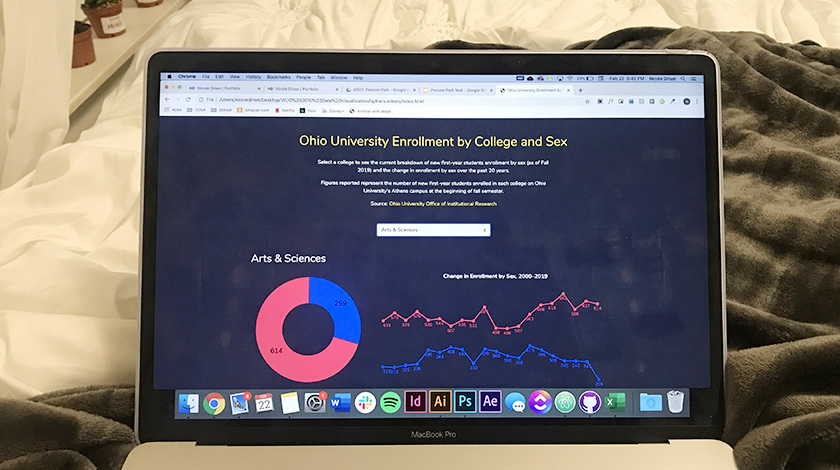
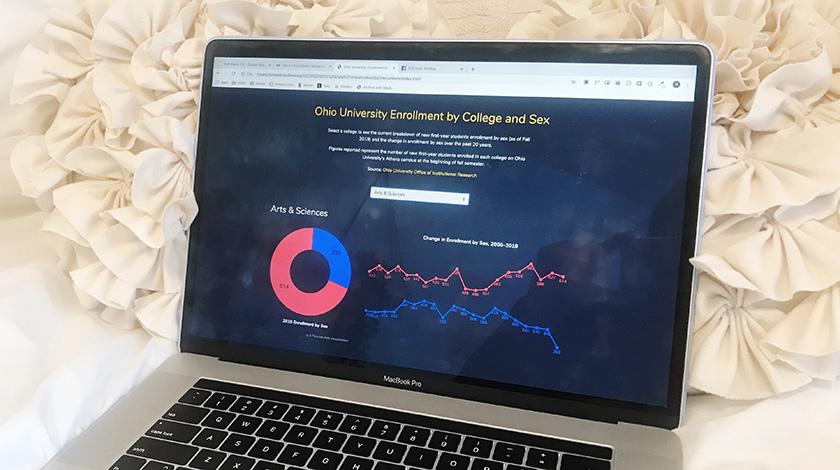
replace home page images and add gold rush page

diff --git a/goldrush.html b/goldrush.html
@@ -1,0 +1,271 @@
+<!DOCTYPE html>
+<html lang="en">
+
+<head>
+	<!-- meta tags -->
+	<meta charset="utf-8" />
+	<meta name="viewport" content="width=device-width, initial-scale=1, shrink-to-fit=no"/>
+	<title>Mongolian Gold Rush | Nicole Dinan</title>
+	<link rel='icon' href='images/nicoledinan_favicon1.png' type='image/x-icon'/ >
+
+	<!-- bootstrap CSS -->
+	<link href="https://unpkg.com/bootstrap/dist/css/bootstrap.min.css" rel="stylesheet"/>
+
+	<!-- google fonts stylesheet -->
+	<link href="https://fonts.googleapis.com/css?family=Poppins:400,400i,500,600,700&display=swap" rel="stylesheet">
+
+	<!-- stylesheet -->
+	<link href="css/projects.css" rel="stylesheet" />
+
+  <!-- fontawesome icons  -->
+  <script src="https://kit.fontawesome.com/5e57f70baf.js" crossorigin="anonymous"></script>
+
+	<style>
+
+    .bkgd-image-1 {
+        background: url(images/goldrush-cover.jpg);
+        height: 500px;
+        background-position: center;
+        background-repeat: no-repeat;
+        background-size: cover;
+        position: relative;
+    }
+
+  </style>
+
+</head>
+
+<body>
+
+<!-- nav bar -->
+<div class="header">
+<nav class="navbar navbar-expand-md navbar-light align-botttom">
+	<a class="navbar-brand" href="index.html">Nicole Dinan</a>
+	<button class="navbar-toggler" type="button" data-toggle="collapse" data-target="#navbarNav" aria-controls="navbarNav" aria-expanded="false" aria-label="Toggle navigation">
+		<span class="navbar-toggler-icon"></span>
+	</button>
+	<div class="collapse navbar-collapse" id="navbarNav">
+		<ul class="navbar-nav ml-auto">
+			<li class="nav-item">
+				<a class="nav-link active" href="index.html">Work<span class="sr-only">(current)</span></a>
+			</li>
+			<li class="nav-item">
+				<a class="nav-link" href="about.html">About</a>
+			</li>
+			<li class="nav-item">
+				<a class="nav-link" href="contact.html">Contact</a>
+			</li>
+		</ul>
+	</div>
+</nav>
+</div>
+
+<!-- section 1 - title -->
+<div class="wrapper">
+	<div class="container-fluid no-margin bkgd-image-1">
+		<div class="row v-fill justify-content-center align-items-end">
+			<div class="col-8">
+				<div class="centered white-text padding-bottom">
+					<h1 class="display-5">Mongolian Gold Rush</h1>
+					<h6>Website Design & Development</h6>
+				</div>
+			</div>
+		</div>
+	</div>
+</div>
+
+<!-- section 2 - project summary, tools, role -->
+<div class="wrapper">
+	<div class="container-fluid no-margin no-padding">
+		<div class="row no-gutters">
+
+			<div class="col-md-6 white">
+				<div class="row no-gutters justify-content-start">
+					<div class="col-12">
+
+						<div class="more-padding">
+							<h2>Project Summary</h2>
+							<p>I redesigned this NPR story page for a class during the fall semester of my senior year. This assignment included photo editing, creating a map, and building a navigation bar that updates as you scroll through the sections of the page.
+							</p>
+							<p><em>All content used in this project is copyrighted to NPR. This project was created for educational use only.</em></p>
+							<a href="http://mongoliangoldrush.surge.sh/" target="_blank" class="btn pink-btn">View live site</a>
+						</div>
+					</div>
+
+				</div>
+			</div>
+			<div class="col-md-6 white">
+				<div class="row no-gutters justify-content-start">
+					<div class="col-12">
+
+						<div class="more-padding">
+
+							<h4>My Role</h4>
+							<button type="button" class="btn btn-light no-hover">Designer</button>
+							<button type="button" class="btn btn-light no-hover">Developer</button>
+
+							<h4>Tools Used</h4>
+							<button type="button" class="btn btn-light no-hover">HTML</button>
+							<button type="button" class="btn btn-light no-hover">CSS</button>
+							<button type="button" class="btn btn-light no-hover">JavaScript</button>
+							<button type="button" class="btn btn-light no-hover">Bootstrap</button>
+							<button type="button" class="btn btn-light no-hover">Mapbox</button>
+						</div>
+					</div>
+
+
+				</div>
+			</div>
+
+		</div>
+	</div>
+</div>
+
+<!-- section 3 - notes & sketches -->
+<div class="wrapper">
+	<div class="container-fluid more-padding gray">
+		<div class="row">
+
+			<div class="col-sm-8">
+				<div class="row">
+					<div class="col-6">
+						<img src="images/notes.JPG" alt="notes on project requirements" width="100%">
+					</div>
+					<div class="col-6">
+						<img src="images/goldrush-sketch.JPG" alt="sketches of design layout" width="100%">
+					</div>
+				</div>
+			</div>
+
+
+			<div class="col-sm-4">
+				<h2>Notes & Sketches</h2>
+				<p>To start this project, I took notes on the requirements and preliminary ideas that I had. Then I sketched out a couple of layout ideas for the page.
+				</p>
+				<p>After I had an idea of how the layout of the page would look, I went through the 70+ photos that were provided and picture edited them down to about 15. From there, I tried out different pictures at different points of the story to see where they went best.
+				</p>
+
+			</div>
+
+		</div>
+
+		</div>
+	</div>
+
+
+
+<!-- section 4 - live site -->
+	<div class="wrapper">
+		<div class="container-fluid more-padding ">
+			<div class="row ">
+
+
+				<div class="col-md-4">
+					<h2>Live Site</h2>
+
+					<p>After determining the content and layout of the page, I coded the site using Bootstrap HTML and CSS.</p>
+
+					<a href="http://mongoliangoldrush.surge.sh/" target="_blank" class="btn pink-btn">View live site</a>
+
+					<h3>Features</h3>
+
+					<h4>Interactive Map</h4>
+
+					<p>I included an interactive map in this project to show the locations of the mining areas from the story. I used Mapbox to create and style this map.</p>
+
+					<h4>Navigation Bar</h4>
+
+					<p>The fixed navigation bar on this site can be used to jump to different sections of the story on the page. The navigation will also automatically update the highlighted tab based on the section of the story you are currently on. The navigation also features a smooth scrolling effect when jumping between sections.</p>
+
+				</div>
+
+				<div class="col-md-8">
+					<img src="images/goldrush-livesite.png" alt="screenshot of live website" width="100%">
+				</div>
+
+
+			</div>
+
+			</div>
+		</div>
+
+
+
+<p class="back"><a href="index.html">Back to Gallery</a></p>
+
+<!-- footer -->
+<div class="wrapper more-padding gray footer-links">
+  <div class="container-fluid">
+
+    <div class="row">
+
+      <div class="col-md-4">
+        <h5>Nicole Dinan</h5>
+
+        <p>© <script type="text/javascript">
+            document.write(new Date().getFullYear());
+          </script> Designed & Developed by Nicole Dinan</p>
+
+        <a href="https://www.linkedin.com/in/nicoledinan/" target="_blank"><i class="fab fa-linkedin-in"></i></a>
+        <a href="https://www.behance.net/nicoledinan" target="_blank"><i class="fab fa-behance"></i></a>
+        <a href="https://github.com/nicoledinan" target="_blank"><i class="fab fa-github"></i></a>
+        <a href="https://www.instagram.com/nicoledinandesign/" target="_blank"><i class="fab fa-instagram"></i></a>
+      </div>
+
+
+      <div class="col-md-2">
+        <h6>Explore</h6>
+        <p><a href="index.html">Work</a><br>
+          <a href="about.html">About</a><br>
+          <a href="contact.html">Contact</a>
+        </p>
+      </div>
+
+
+      <div class="col-md-2">
+        <h6>Projects</h6>
+        <p><a href="http://ohio-tuition.surge.sh/" target="_blank">Rising Tuition Costs</a><br>
+          <a href="http://ywca-locations.surge.sh/" target="_blank">YWCA Locations</a><br>
+          <a href="http://top5.surge.sh/" target="_blank">Top 5 Lunch Spots</a><br>
+          <a href="http://mongoliangoldrush.surge.sh/" target="_blank">Mongolian Gold Rush</a>
+        </p>
+
+        <h6>Case Studies</h6>
+        <p><a href="bizav.html">Aviation Wi-Fi Quiz</a><br>
+          <a href="devhack.html">V-Advocate AR App</a>
+        </p>
+      </div>
+
+
+      <div class="col-md-2">
+        <h6>Skills</h6>
+        <p><a href="https://www.behance.net/collection/174800557/Web-Design" target="_blank">Web Design</a><br>
+          <a href="https://www.behance.net/collection/174800527/Graphic-Design" target="_blank">Graphic Design</a><br>
+          <a href="https://www.behance.net/collection/175199857/Front-end-Development" target="_blank">Front-end Development</a><br>
+          <a href="https://www.behance.net/collection/175199985/Motion-Graphics" target="_blank">Motion Graphics</a><br>
+          <a href="https://www.behance.net/collection/175199867/Illustration" target="_blank">Illustration</a>
+        </p>
+      </div>
+
+
+      <div class="col-md-2">
+        <h6>Internships</h6>
+        <p><a href="viasat.html">Viasat</a><br>
+          <a href="mcgraw-hill.html">McGraw-Hill Education</a>
+        </p>
+      </div>
+    </div>
+  </div>
+</div>
+<!-- end footer -->
+
+
+
+	<!-- javascript dependencies: first jQuery, then Popper.js, then Bootstrap JS -->
+	<script src="https://unpkg.com/jquery/dist/jquery.min.js"></script>
+	<script src="https://unpkg.com/popper.js/dist/umd/popper.min.js"></script>
+	<script src="https://unpkg.com/bootstrap/dist/js/bootstrap.min.js"></script>
+
+</body>
+
+</html>
